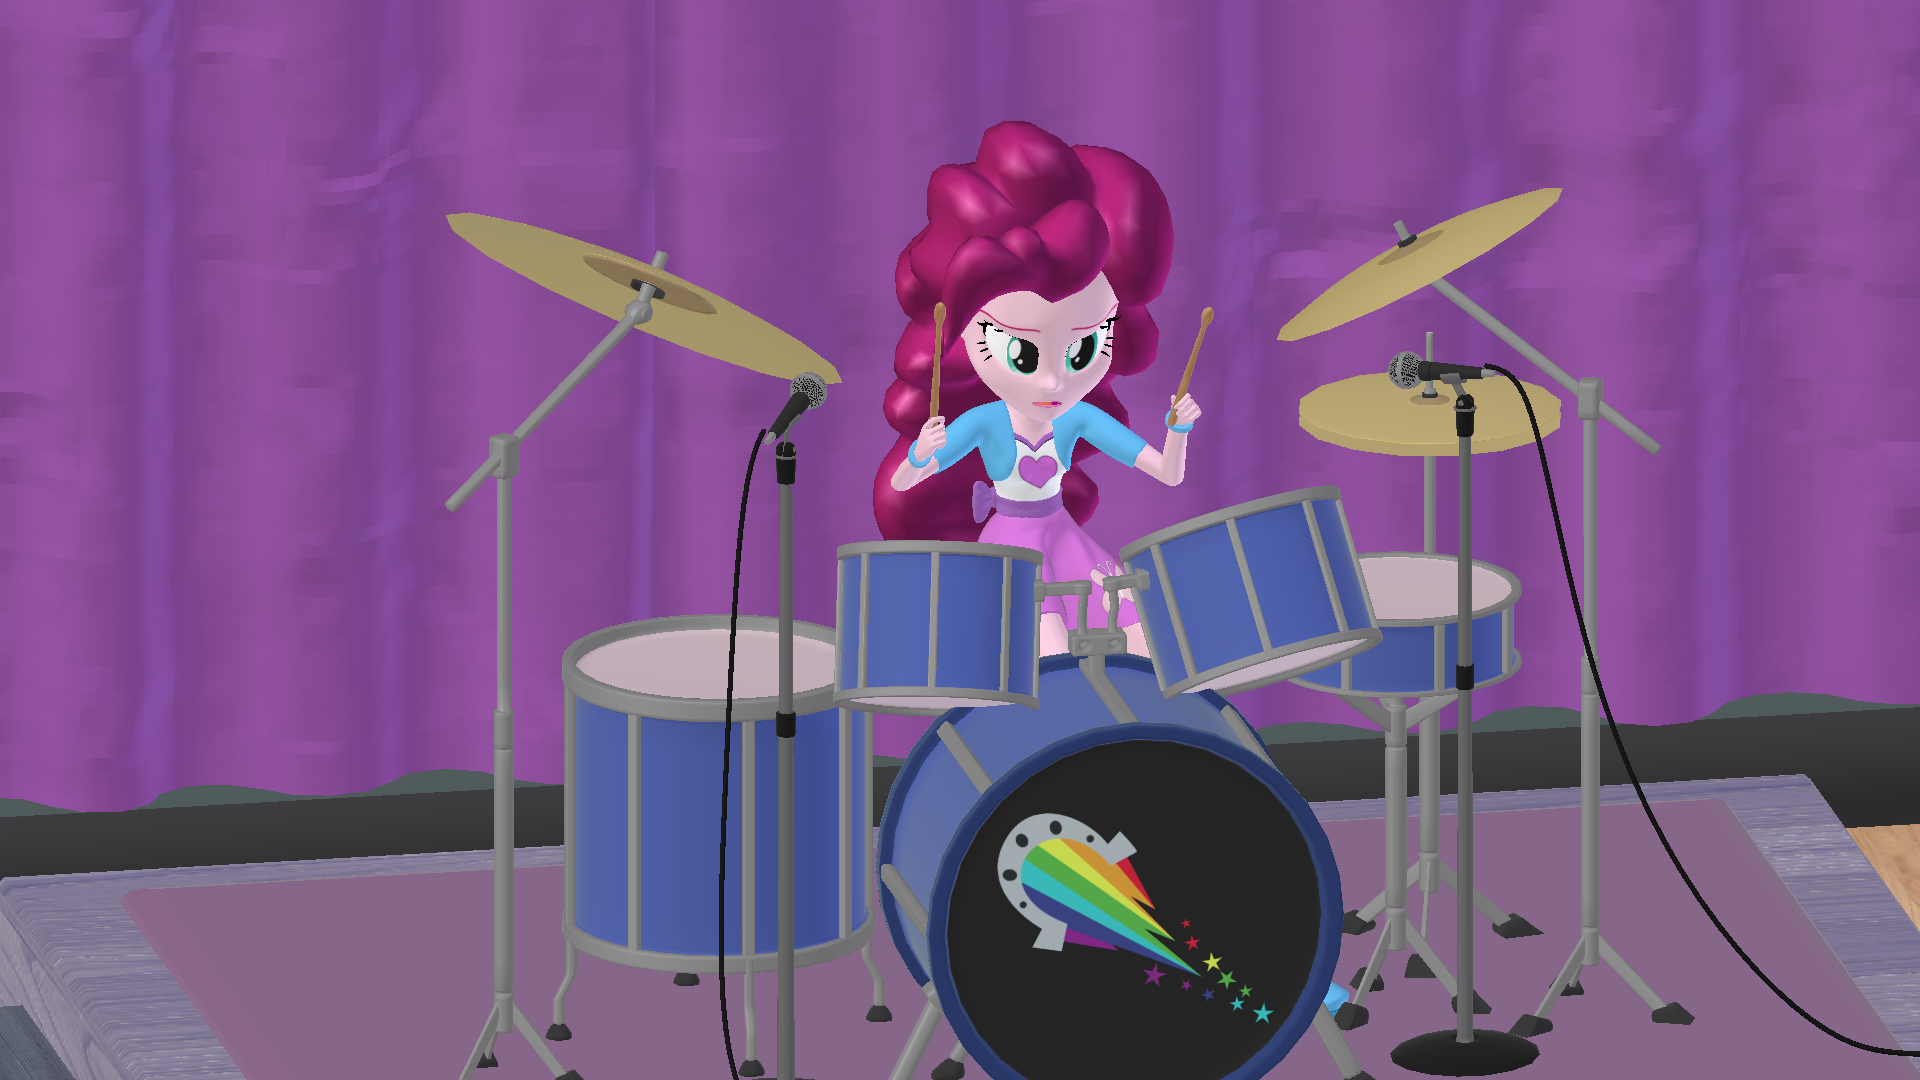
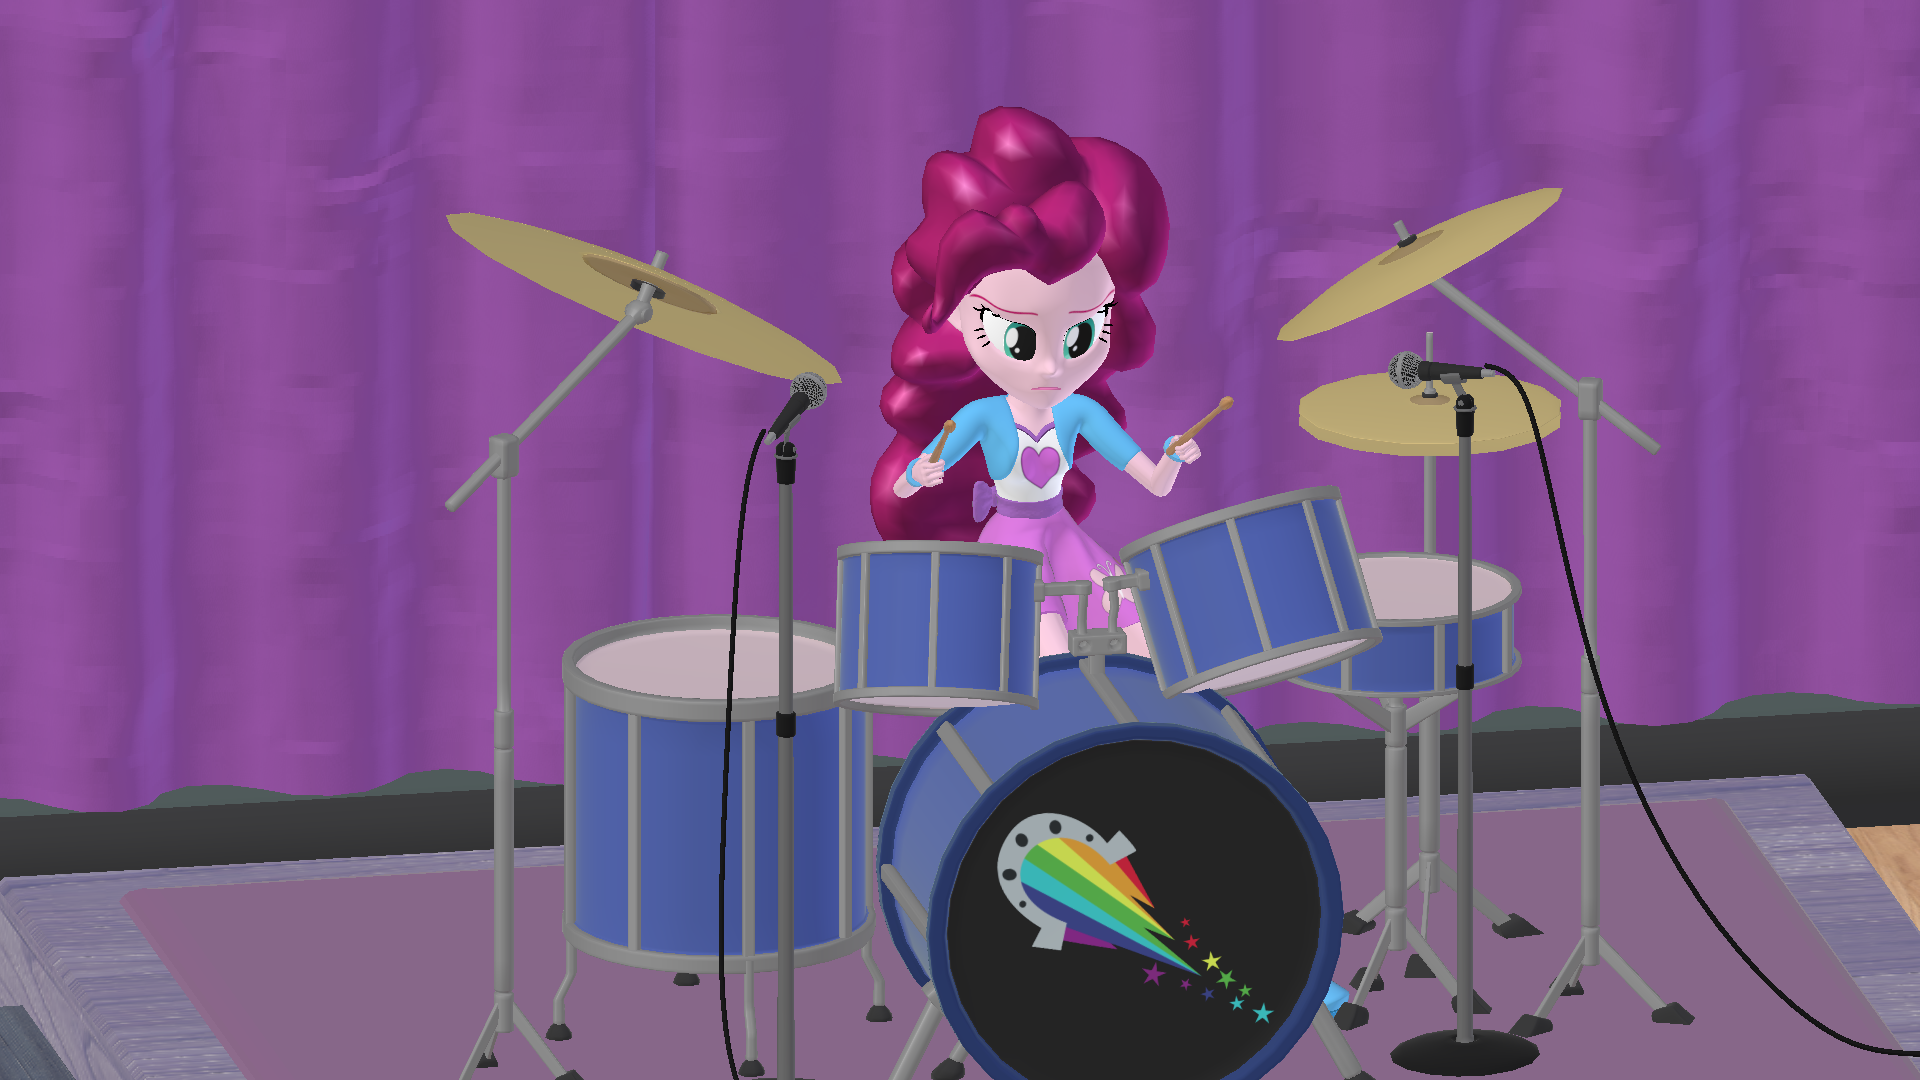
Fixed Pinkie's idle animation.

Changed region(s): [[0.4375, 0.0917, 0.6562, 0.4583], [0.5938, 0.8556, 0.625, 0.9167], [0.625, 0.275, 0.6562, 0.3056]]

diff --git a/drumfxck/gui.py b/drumfxck/gui.py
@@ -21,7 +21,7 @@ def main():
         'cymbal1': 2,
         'cymbal2': 2,
         'hihat': 2,
-        'idle': 14,
+        'idle': 13,
         'snare': 2,
         'tomtom1': 2,
         'tomtom2': 2,
